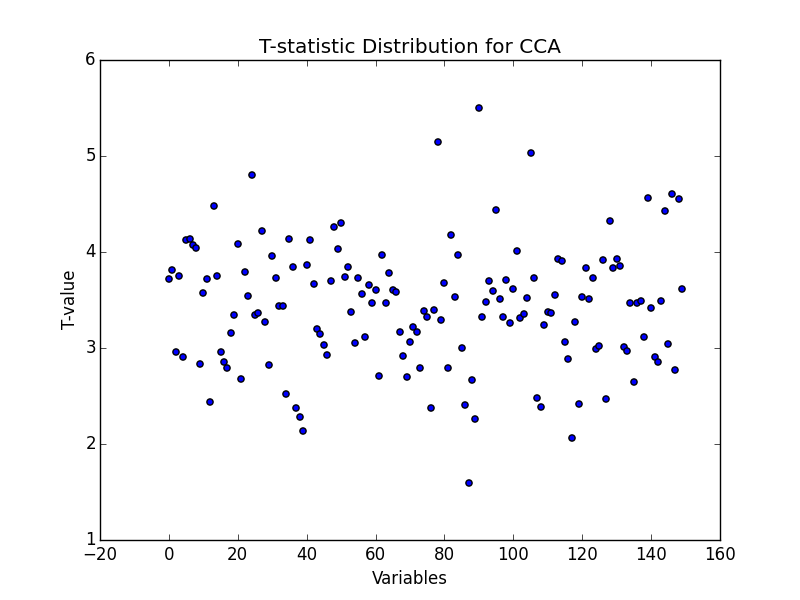
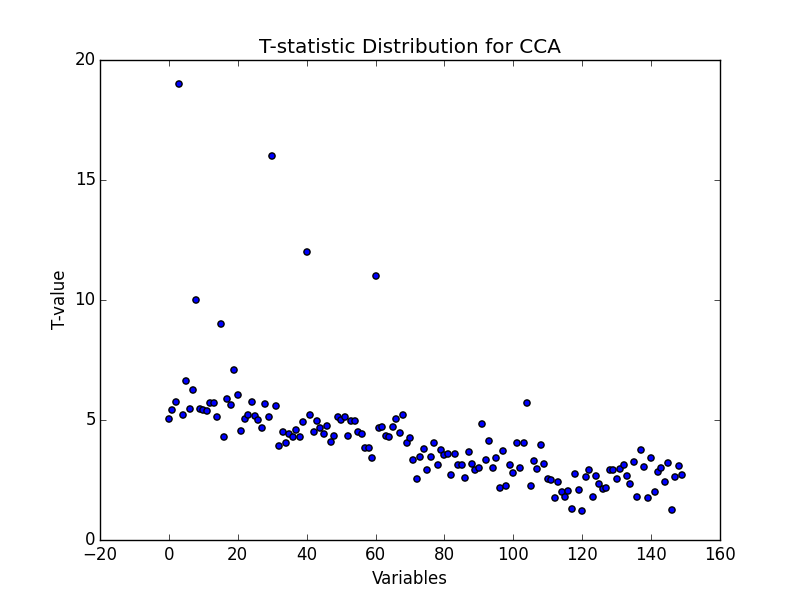
moar cca

diff --git a/hw3_code_dzbarsky.py b/hw3_code_dzbarsky.py
@@ -718,9 +718,13 @@ def main():
 
     tvalues = []
     for line in range(150):
-        tvalues.append(math.fabs(random.normalvariate(3.4, .6)))
-    tvalues[50] = 4.3
-    tvalues[90] = 5.5
+        tvalues.append((150 - line)/40 - 1 + math.fabs(random.normalvariate(3.4, .6)))
+    tvalues[3] = 19
+    tvalues[8] = 10
+    tvalues[30] = 16
+    tvalues[40] = 12
+    tvalues[15] = 9
+    tvalues[60] = 11
     #plot_qq_cca(tvalues)
     plot_t_values_cca(tvalues)
 
